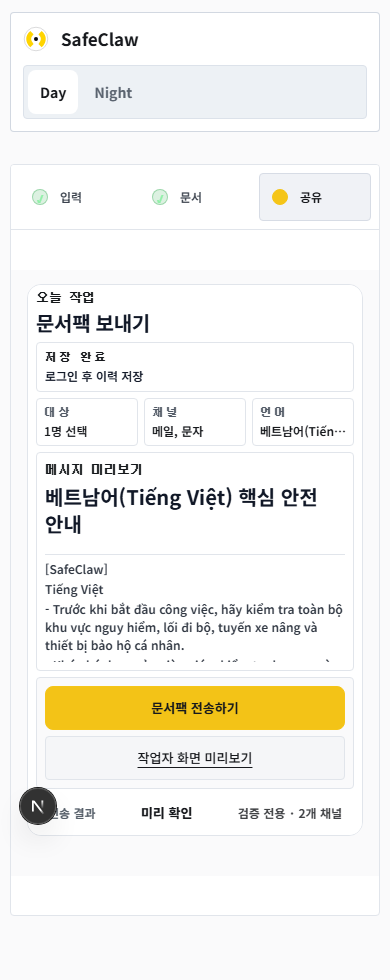
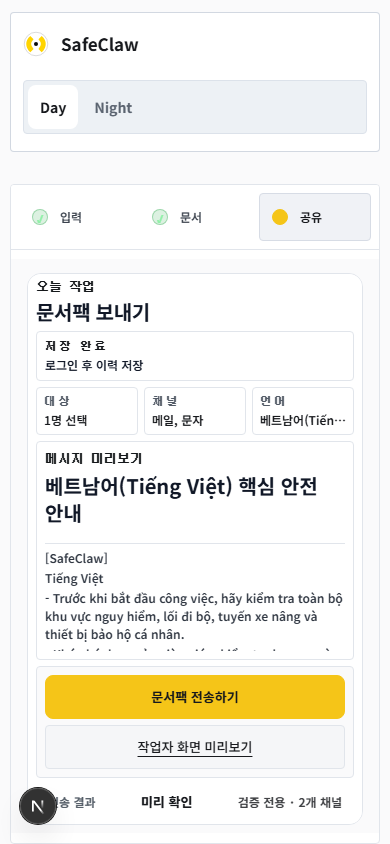
chore: record share generated result perception evidence

diff --git a/evaluation/share-generated-session-perception-2026-07-22/report.md b/evaluation/share-generated-session-perception-2026-07-22/report.md
@@ -1,0 +1,64 @@
+# Share Generated Session Perception Gate
+
+Checked at: `2026-07-22T05:16:50.878Z`
+
+Source HEAD: `00538f0db4fefd4267292f68d51c0bacc24f17d7`
+
+Route: `/workspace?share`
+
+Verdict: `PASS_CURRENT_SOURCE_GENERATED_RESULT_FIXTURE`
+
+Provider live dispatch claimed: `false`
+
+External provider called: `false`
+
+DB mutation performed: `false`
+
+Route/page split alone accepted as fix: `false`
+
+## Scope
+
+This artifact is separate from `evaluation/share-desktop-perception-2026-07-22/report.json`.
+
+- Existing Share desktop perception PASS covers live Workspace Share and invited recipient fixture geometry.
+- This artifact covers generated current-workpack provider-result UI proof with browser route mocks for workpack/session/dispatch/log APIs.
+- No exact saved user production session id was available, so this does not close a future user-provided saved-session repro.
+
+## Prior RED
+
+The first generated-result run reproduced the short desktop problem:
+
+- Viewport: `1440x723`
+- Result summary: `top=707`, `bottom=751`
+- Viewport height: `723`
+- Verdict: `RED_GENERATED_PROVIDER_RESULT_SHORT_DESKTOP`
+
+Other desktop workbench signals were healthy: root width `1180`, preview right pane, distinct x ranges `[160,800]`, and horizontal overflow `0`. The defect was result-status landing in short desktop height, not desktop column collapse.
+
+## Remediation
+
+The product patch is scoped to `app/globals.css`.
+
+When a provider-result drilldown exists in the short-height workspace share step, the four-step stage rail is hidden so the result summary becomes the first-viewport status surface. Provider dispatch routes, recipient APIs, database contracts, and mobile config collapse behavior are unchanged.
+
+## Metrics
+
+| Scenario | Viewport | Verdict | Page height | Root width | Primary bottom | Preview bottom | Result summary top-bottom | X regions | Overflow |
+| --- | --- | --- | ---: | ---: | ---: | ---: | --- | --- | ---: |
+| generated-result-desktop-short | 1440x723 | PASS | 723 | 1180 | 409 | 591 | 303-347 | 160, 800 | 0 |
+| generated-result-desktop | 1440x900 | PASS | 928 | 1180 | 429 | 785 | 775-819 | 160, 800 | 0 |
+| generated-result-mobile | 390x844 | PASS | 844 | 336 | 723 | 664 | 784-828 | 80, 0 | 0 |
+
+## Payload Proof
+
+- Dispatch POST count: `1` in each scenario.
+- Idempotency key shape: `provider-dispatch-v1-*` in each scenario.
+- Closed result summary includes `검증 전용 · 2개 채널`.
+- Opening result details shows two channel results.
+- Provider live dispatch remains unclaimed.
+
+## Remaining Boundary
+
+- If a user-visible saved production session still looks like a narrow mobile card on desktop, reproduce that exact session with this width-ratio/grid gate before changing product code.
+- All-12 Documents selected-only bounded workbench remains separate open IA debt.
+- Provider live dispatch remains approval-gated.
